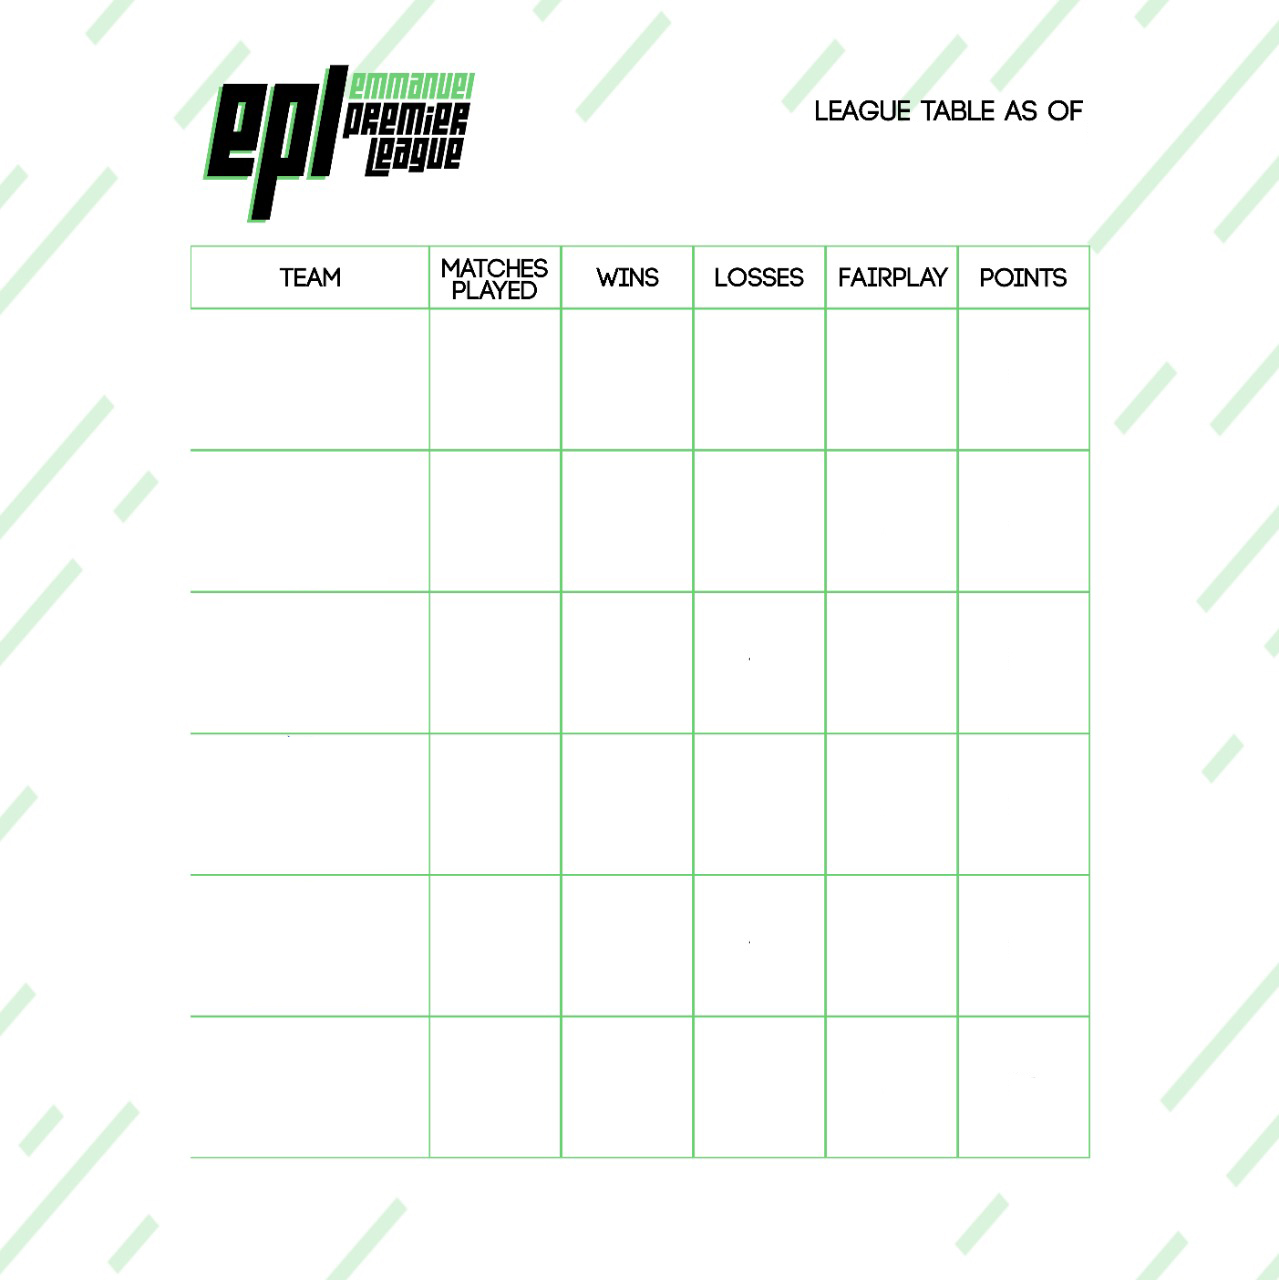
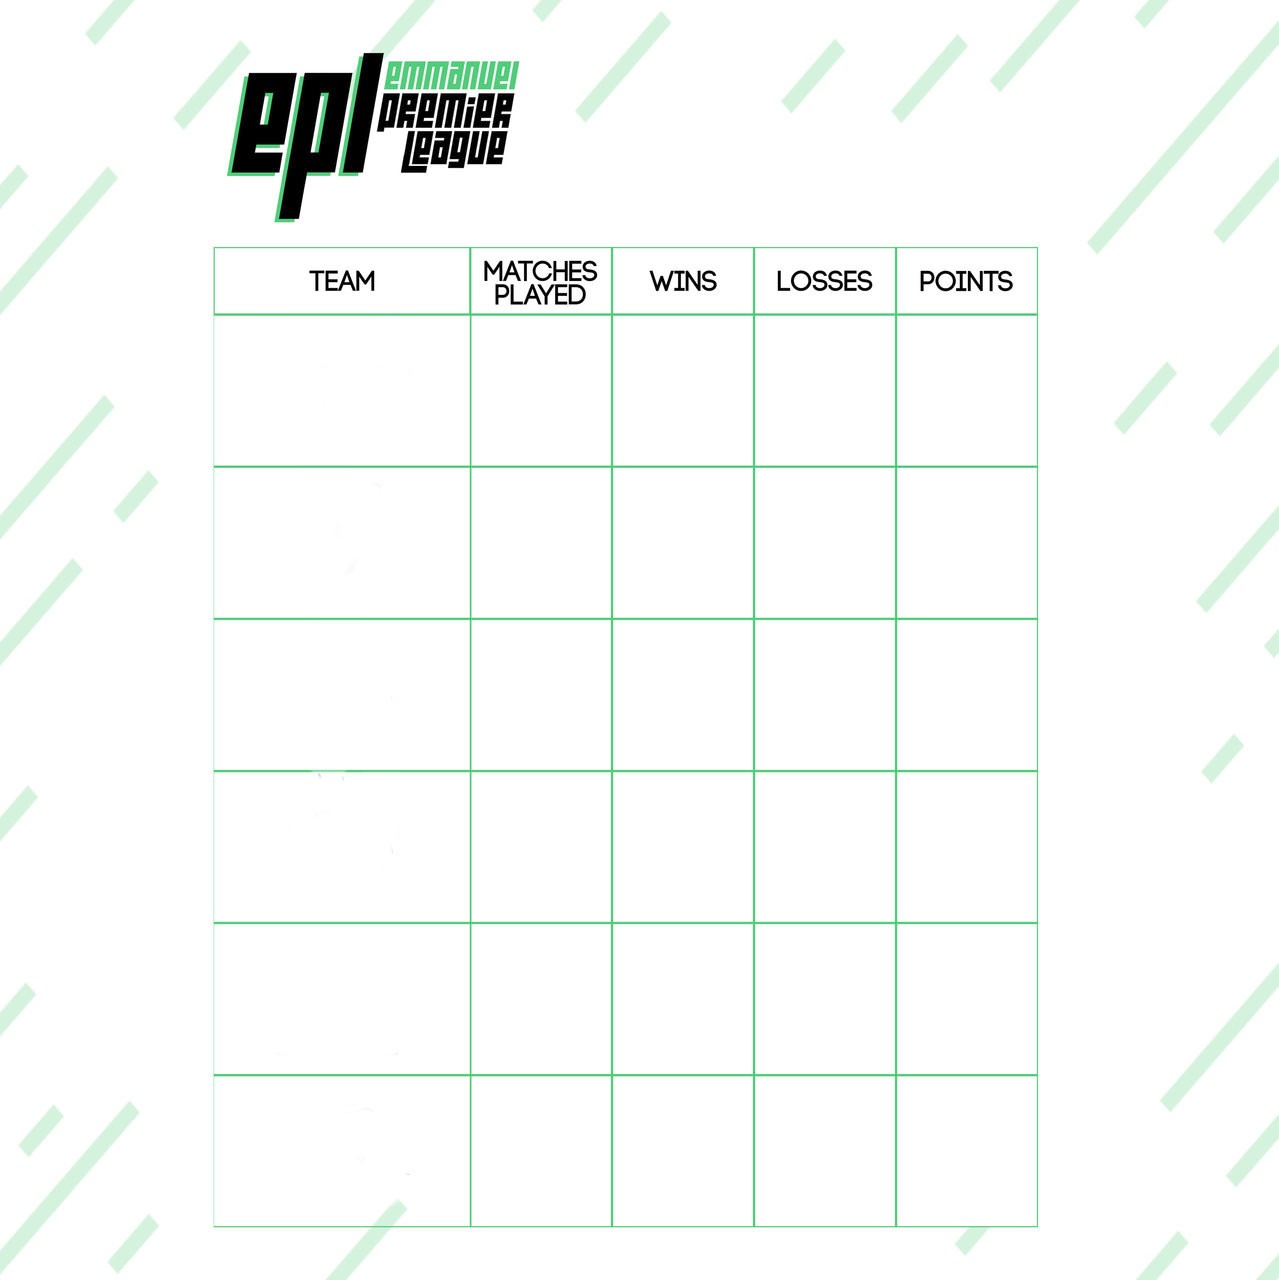
removed fairplay

diff --git a/app.py b/app.py
@@ -12,12 +12,12 @@ def main():
     teams = []
     with open('scores.yaml') as file:
         teamStats = yaml.load(file, Loader=yaml.FullLoader)
-        teams.append(Team(teamStats['Hawks'], teamStats['Hawks']['played'], teamStats['Hawks']['wins'], teamStats['Hawks']['fairplay'], 'resources/teams/hawks.gif'))
-        teams.append(Team(teamStats['Falcons'], teamStats['Falcons']['played'], teamStats['Falcons']['wins'], teamStats['Falcons']['fairplay'], 'resources/teams/falcons.gif'))
-        teams.append(Team(teamStats['Eagles'], teamStats['Eagles']['played'], teamStats['Eagles']['wins'], teamStats['Eagles']['fairplay'], 'resources/teams/eagles.gif'))
-        teams.append(Team(teamStats['Cheetahs'], teamStats['Cheetahs']['played'], teamStats['Cheetahs']['wins'], teamStats['Cheetahs']['fairplay'], 'resources/teams/cheetahs.gif'))
-        teams.append(Team(teamStats['Panthers'], teamStats['Panthers']['played'], teamStats['Panthers']['wins'], teamStats['Panthers']['fairplay'], 'resources/teams/panthers.gif'))
-        teams.append(Team(teamStats['Jaguars'], teamStats['Jaguars']['played'], teamStats['Jaguars']['wins'], teamStats['Jaguars']['fairplay'], 'resources/teams/jaguars.gif'))
+        teams.append(Team(teamStats['Hawks'], teamStats['Hawks']['played'], teamStats['Hawks']['wins'], 'resources/teams/hawks.gif'))
+        teams.append(Team(teamStats['Falcons'], teamStats['Falcons']['played'], teamStats['Falcons']['wins'], 'resources/teams/falcons.gif'))
+        teams.append(Team(teamStats['Eagles'], teamStats['Eagles']['played'], teamStats['Eagles']['wins'], 'resources/teams/eagles.gif'))
+        teams.append(Team(teamStats['Cheetahs'], teamStats['Cheetahs']['played'], teamStats['Cheetahs']['wins'], 'resources/teams/cheetahs.gif'))
+        teams.append(Team(teamStats['Panthers'], teamStats['Panthers']['played'], teamStats['Panthers']['wins'], 'resources/teams/panthers.gif'))
+        teams.append(Team(teamStats['Jaguars'], teamStats['Jaguars']['played'], teamStats['Jaguars']['wins'], 'resources/teams/jaguars.gif'))
 
         date = teamStats['Date']
 
@@ -27,12 +27,12 @@ def main():
     
     positions = []
     # img 142 | score 145    
-    positions.append(Position(1, 191, 310, 360, 480, 130))
-    positions.append(Position(2, 191, 452, 505, 480, 130))
-    positions.append(Position(3, 191, 594, 650, 480, 130))
-    positions.append(Position(4, 191, 736, 795, 480, 130))
-    positions.append(Position(5, 191, 878, 940, 480, 130))
-    positions.append(Position(6, 191, 1020, 1085, 480, 130))
+    positions.append(Position(1, 220, 320, 360, 480+50, 130))
+    positions.append(Position(2, 220, 480, 505, 480+50, 130))
+    positions.append(Position(3, 220, 630, 670, 480+50, 130))
+    positions.append(Position(4, 220, 770, 820, 480+50, 130))
+    positions.append(Position(5, 220, 930, 980, 480+50, 130))
+    positions.append(Position(6, 220, 1080, 1125, 480+50, 130))
     
     template = Image.open("resources/template.jpg")
     draw = ImageDraw.Draw(template)
@@ -41,7 +41,7 @@ def main():
 
     ctr = 0
     for p in positions:
-        p.updateScores(teams[ctr].played, teams[ctr].wins, teams[ctr].fairplayPoints, teams[ctr].logo)    
+        p.updateScores(teams[ctr].played, teams[ctr].wins, teams[ctr].logo)    
         render(template, draw, p)
         ctr = ctr + 1
 
@@ -56,7 +56,6 @@ def render(template, draw, pos):
     draw.text((pos.playedX, pos.playedY), str(pos.played), (0,0,0), font=font)
     draw.text((pos.winsX, pos.winsY), str(pos.wins), (0,0,0), font=font)
     draw.text((pos.lossesX, pos.lossesY), str(pos.losses), (0,0,0), font=font)
-    draw.text((pos.fairplayX, pos.fairplayY), str(pos.fairplayPoints), (0,0,0), font=font)
     draw.text((pos.pointsX, pos.pointsY), str(pos.points), (0,0,0), font=font)
 
 if __name__ == "__main__":

diff --git a/position.py b/position.py
@@ -14,24 +14,19 @@ class Position:
     self.lossesX = playedY + (2 * offset)
     self.lossesY = playedX
 
-    self.fairplayX = playedY + (3 * offset)
-    self.fairplayY = playedX 
-
-    self.pointsX = playedY + (4 * offset)
+    self.pointsX = playedY + (3 * offset)
     self.pointsY = playedX
     
     self.teamLogo = ""
     self.played = 0
     self.wins  = 0
     self.losses = 0
-    self.fairplayPoints = 0
     self.points = 0
   
-  def updateScores(self, played, wins, fairplayPoints, logo):
+  def updateScores(self, played, wins, logo):
       self.played = played
       self.wins = wins
       self.losses = played - wins
-      self.fairplayPoints = fairplayPoints
-      self.points = (wins * 3) + fairplayPoints
+      self.points = (wins * 3)
       self.teamLogo = logo
 

diff --git a/team.py b/team.py
@@ -1,11 +1,10 @@
 class Team:
-  def __init__(self, name, played, wins, fairplayPoints, logo):
+  def __init__(self, name, played, wins, logo):
     self.name = name
     self.played = played
     self.wins  = wins
     self.losses = played - wins
-    self.fairplayPoints = fairplayPoints
-    self.points = (3 * wins) + fairplayPoints
+    self.points = (3 * wins)
     self.logo = logo
 
     def __str__(self):
